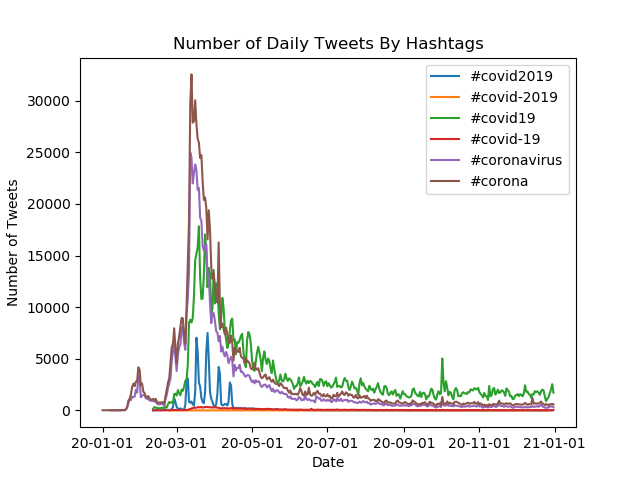
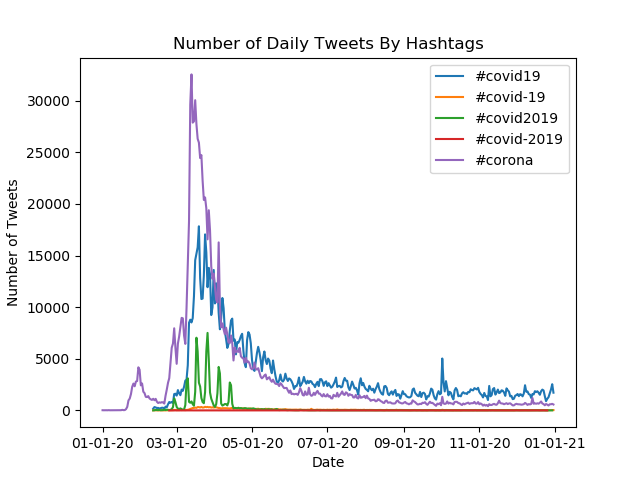
final alt reduce plots

diff --git a/src/alternative_reduce.py b/src/alternative_reduce.py
@@ -21,10 +21,9 @@ from collections import Counter, defaultdict
 from datetime import datetime
 
 # initialize
-# total_hashtags = defaultdict(lambda: Counter())
 file_path = "/home/rmha2020/twitter_coronavirus/outputs/geoTwitter20*.lang"
 files = glob.glob(file_path)
-total = defaultdict(int)
+all_info = defaultdict(int)
 
 # go through files
 for file in files:
@@ -34,13 +33,13 @@ for file in files:
         for hashtag in args.hashtags:
             if hashtag in tmp:
                 for language in tmp[hashtag]:
-                    if (date, hashtag) not in total:
-                        total[(date, hashtag)] = 0
-                total[(date, hashtag)] += np.sum(list(tmp[hashtag].values()))
+                    if (date, hashtag) not in all_info:
+                        all_info[(date, hashtag)] = 0
+                all_info[(date, hashtag)] += np.sum(list(tmp[hashtag].values()))
 
 # plot the data
-total = dict(sorted(total.items(), key=lambda key: key[0]))
-fig, ax = plt.subplots()
+total = dict(sorted(all_info.items(), key=lambda key: key[0]))
+fig, x_axis = plt.subplots()
 
 for hashtag in args.hashtags:
     dates = []
@@ -53,10 +52,10 @@ for hashtag in args.hashtags:
 
     if dates:  # Check if the list is not empty
         dates_list = [datetime.strptime(date_str, "%y-%m-%d") for date_str in dates]
-        ax.plot(dates_list, counts, label=hashtag)
+        x_axis.plot(dates_list, counts, label=hashtag)
 
-ax.xaxis.set_major_locator(plt_dates.MonthLocator(interval=2))
-ax.xaxis.set_major_formatter(plt_dates.DateFormatter("%y-%m-%d"))
+x_axis.xaxis.set_major_locator(plt_dates.MonthLocator(interval=2))
+x_axis.xaxis.set_major_formatter(plt_dates.DateFormatter("%m-%d-%y"))
 
 # add labels
 plt.xlabel('Date')
@@ -64,12 +63,7 @@ plt.ylabel('Number of Tweets')
 plt.title('Number of Daily Tweets By Hashtags')
 plt.legend()
 
-#finalHashes = ""
-#for hsh in args.hashtags:
-#    finalHashes += hsh
-
-
 # Save the plot to the specified output path
-output_filename = f'{hashtag}_alt_reduce3.png'
+output_filename = f'{hashtag}_alt_reduce.png'
 output_p = os.path.join(args.output_path, output_filename)
 plt.savefig(output_p)
